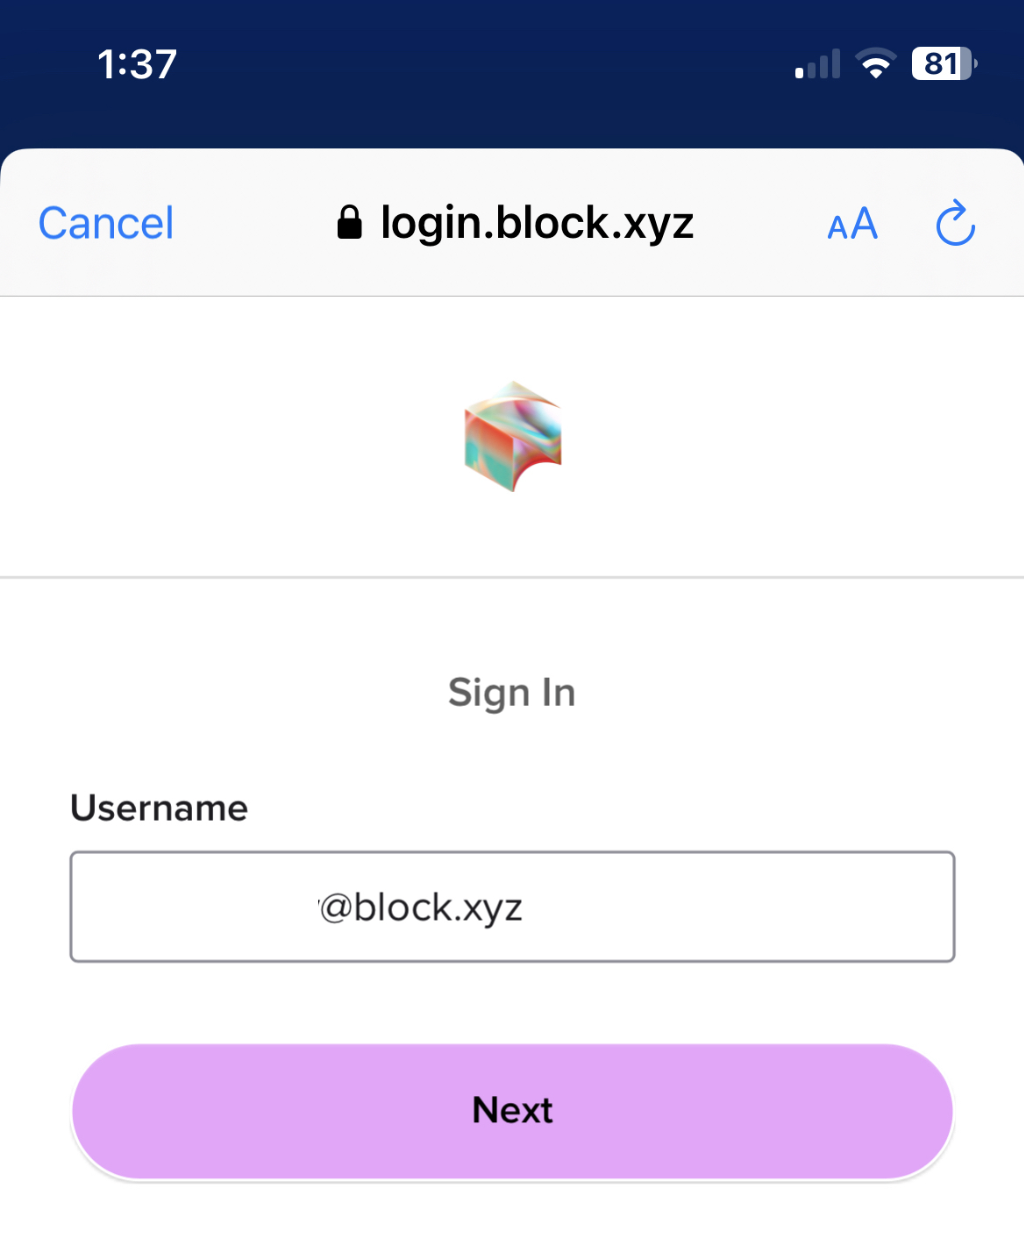
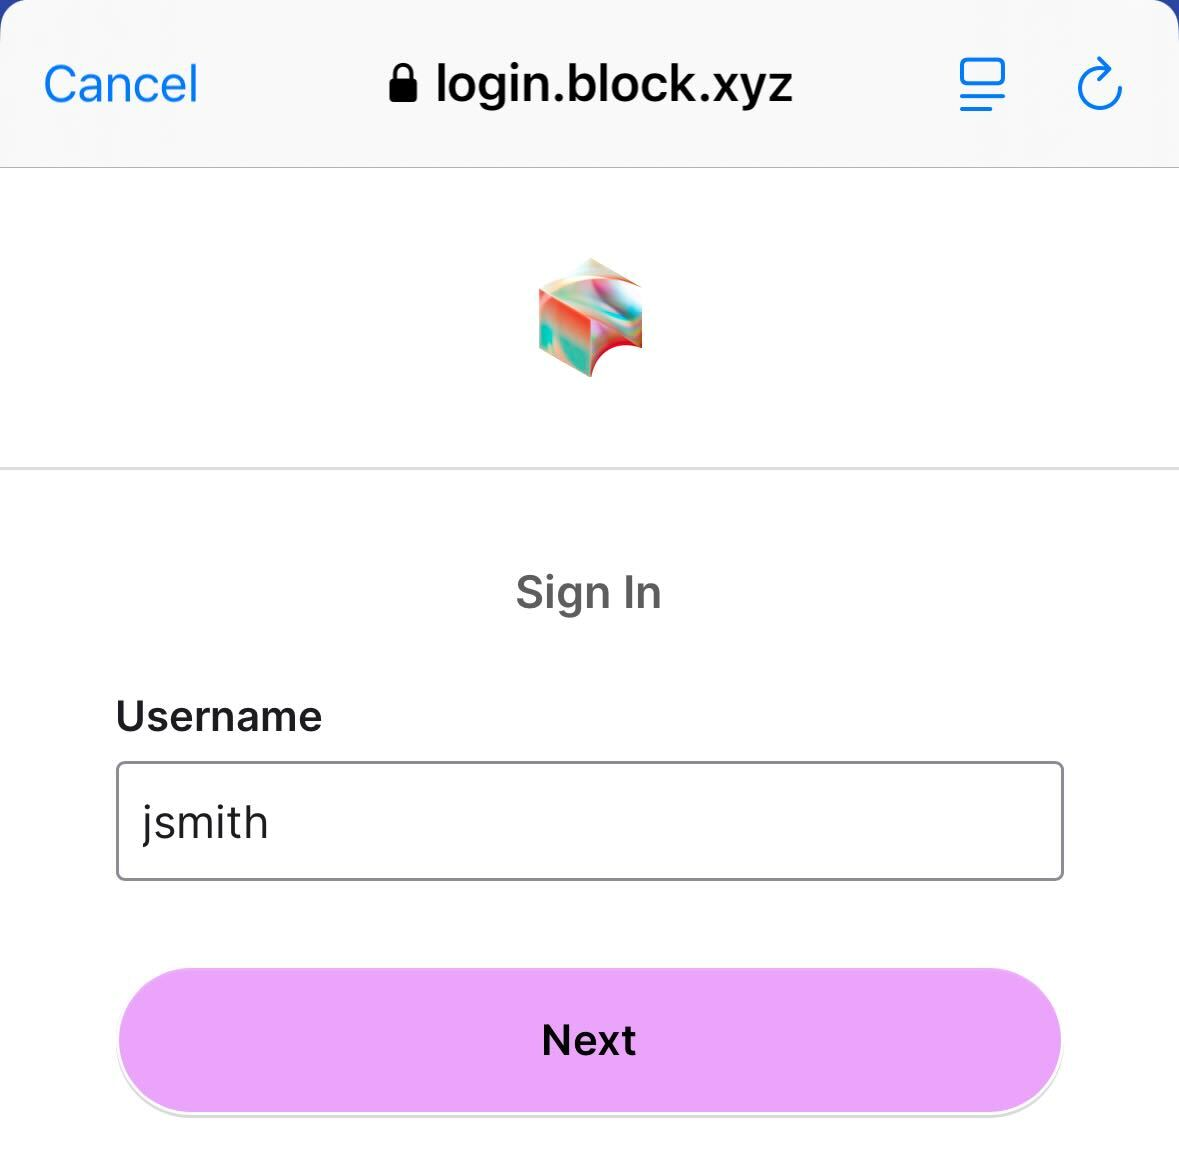
Update Image and Text

diff --git a/_pages/okta-verify-mobile.md b/_pages/okta-verify-mobile.md
@@ -23,7 +23,7 @@ Select __No, Sign In Instead__. A QR Code cannot be used.
 {% include figure url="/assets/images/ovm-5.png" image_path="/assets/images/ovm-5.png"  %}
 Enter __login.block.xyz__ as your organization’s Sign-in URL.
 
-Enter your Block username: Eg. jsmith@block.xyz, then enter your Okta password.
+Enter your Block username: Eg. `jsmith`, then enter your Okta password.
 {% include figure url="/assets/images/ovm-6.png" image_path="/assets/images/ovm-6.png"  %}
 {% include figure url="/assets/images/ovm-7.png" image_path="/assets/images/ovm-7.png"  %}
 
